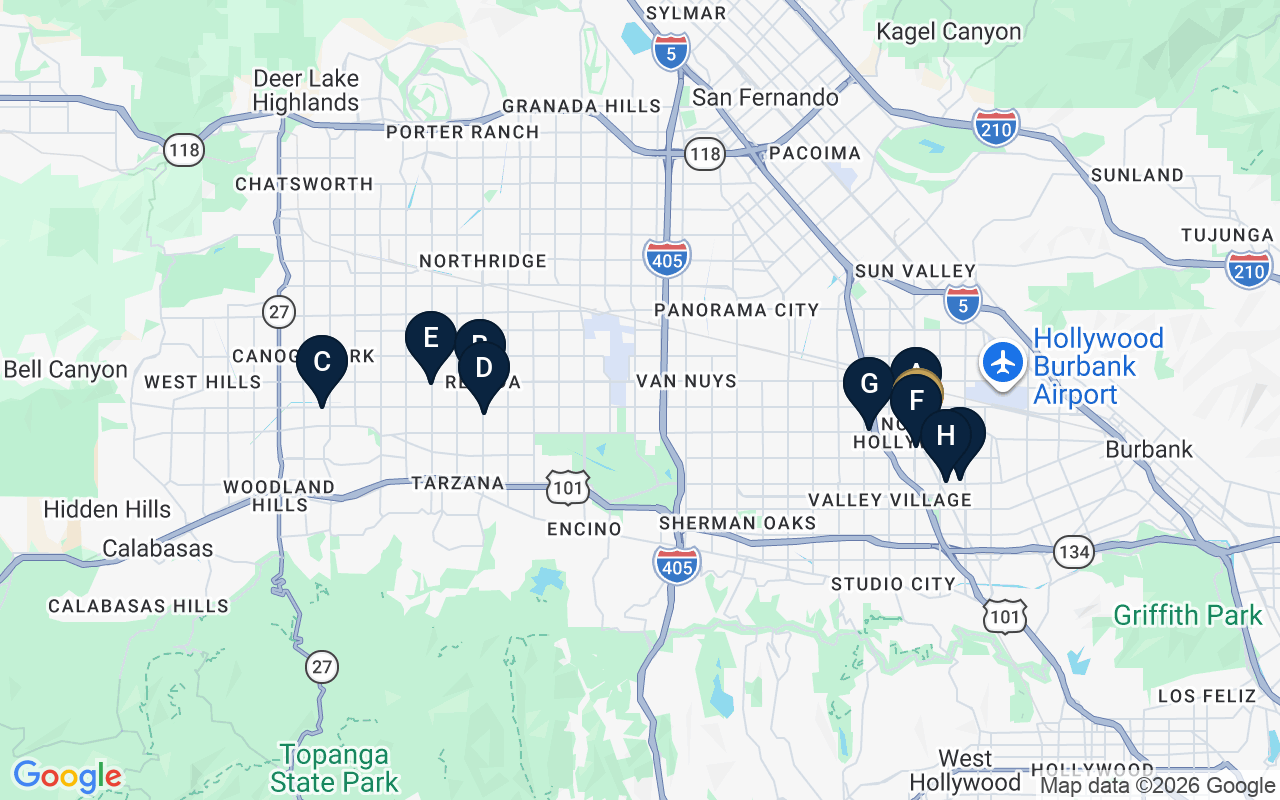
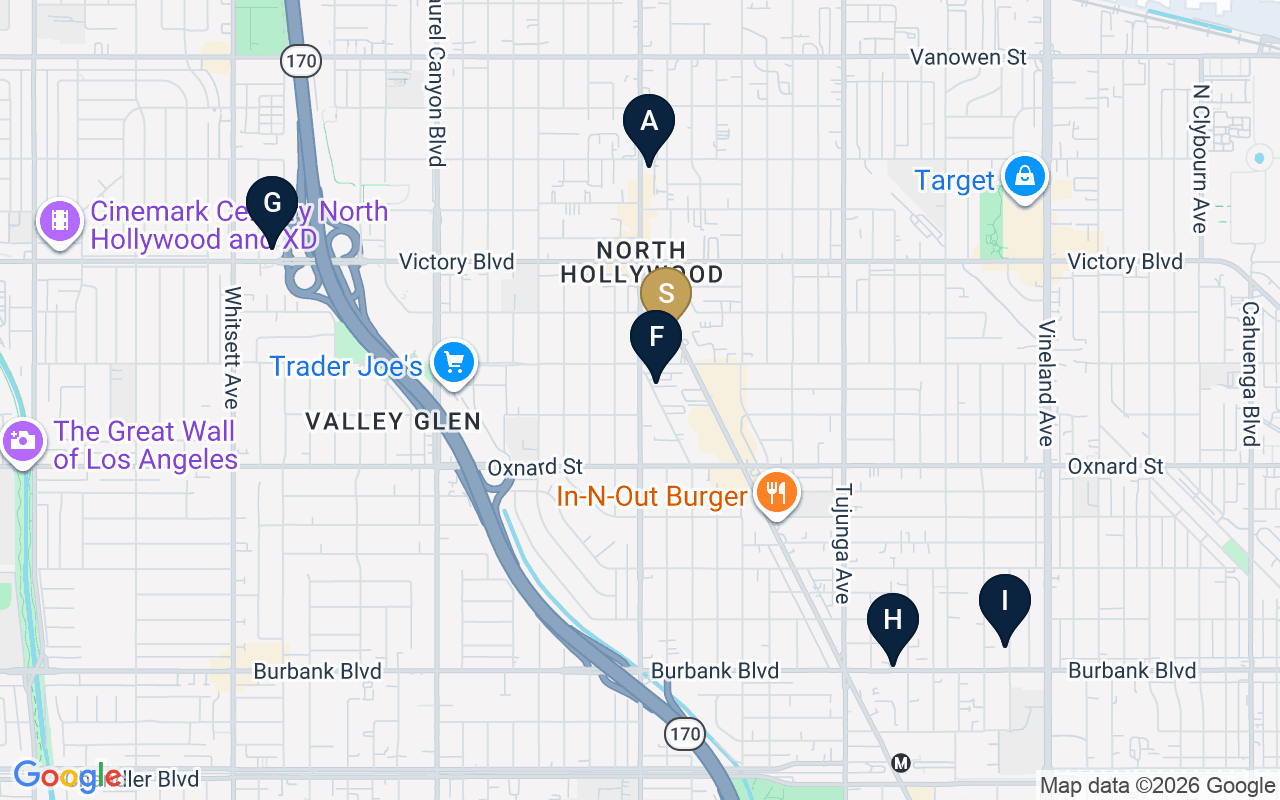
Split land comps into NoHo + Western Valley maps for legibility

diff --git a/index.html b/index.html
@@ -270,7 +270,10 @@ footer a{color:#b8985a;text-decoration:none}
 <section class="card" id="land-comps">
   <h2>Land Sale Comparables</h2>
   <p>San Fernando Valley development land sales, priced per acre, with the buyer's program noted where known. Five of the nine are North Hollywood closings, the most recent on Lankershim Blvd itself at Victory Blvd in April 2026. The four Western Valley sales, in Reseda and Canoga Park between September 2025 and March 2026, are the Valley's most recent affordable-development land prints and show what those developers are paying per buildable unit.</p>
-  <img class="full" src="images/land-comps-map.png" alt="Land sale comparables map">
+  <div class="img-2up">
+    <div><img src="images/land-comps-map.png" alt="North Hollywood land comparables map"><div class="cap">North Hollywood closings (A, F, G, H, I) around the subject.</div></div>
+    <div><img src="images/land-comps-map-west.png" alt="Western Valley land comparables map"><div class="cap">The 2025-2026 Western Valley affordable-land closings (B, C, D, E).</div></div>
+  </div>
   <div class="tbl-scroll">
   <table>
     <tr><th></th><th>Property</th><th>Status</th><th>Price</th><th>Lot Size</th><th>$/Acre</th><th>Zoning</th><th>COE</th><th>Buyer Program</th></tr>
